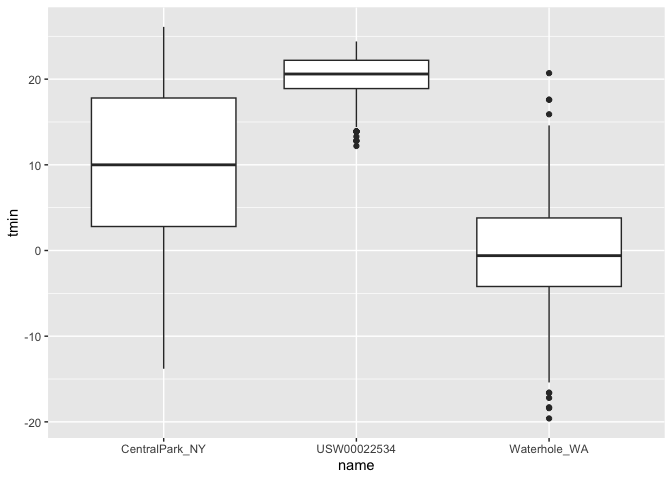
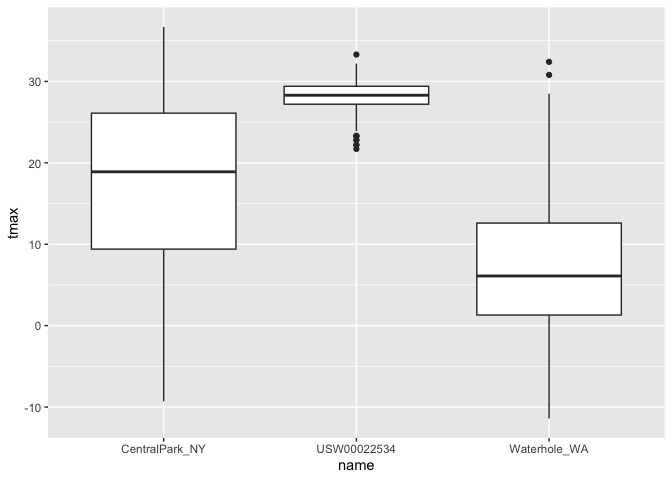
final commit

diff --git a/Visualization-1.md b/Visualization-1.md
@@ -269,15 +269,11 @@ can use a neat geom!
 
 ``` r
 weather_df |>
-  ggplot(aes(x = tmin, y = tmax,color=name)) + 
+  ggplot(aes(x = tmin, y = tmax)) + 
   geom_hex() 
 ```
 
     ## Warning: Removed 17 rows containing non-finite values (`stat_binhex()`).
-
-    ## Warning: Computation failed in `stat_binhex()`
-    ## Caused by error in `compute_group()`:
-    ## ! The package "hexbin" is required for `stat_binhex()`
 
 ![](Visualization-1_files/figure-gfm/unnamed-chunk-12-1.png)<!-- -->
 
@@ -347,10 +343,8 @@ Can we add color..
 
 ``` r
 weather_df |> 
-  ggplot(aes(x = tmin,fill=name)) + 
-  geom_histogram(position="dodge") +
-# the bins sit next to each other 
-  facet_grid(.~name)
+  ggplot(aes(x = tmin,color=name)) + 
+  geom_histogram(position="dodge") 
 ```
 
     ## `stat_bin()` using `bins = 30`. Pick better value with `binwidth`.
@@ -358,12 +352,19 @@ weather_df |>
     ## Warning: Removed 17 rows containing non-finite values (`stat_bin()`).
 
 ![](Visualization-1_files/figure-gfm/unnamed-chunk-17-1.png)<!-- -->
+
+``` r
+# the bins sit next to each other 
+```
+
 Let’s try a new geometry!
 
 ``` r
 weather_df |> 
-  ggplot(aes(x = tmin,fill=name)) + 
+  ggplot(aes(x = tmin,fill=name)) +
+# fill only applies to density plot 
   geom_density(alpha = .4,adjust = .5) +
+# adjust is about the same with binwidth 
   facet_grid(.~name)
 ```
 
@@ -379,7 +380,7 @@ What about boxplots?
 
 ``` r
 weather_df |> 
-  ggplot(aes(x = name,y=tmin)) + 
+  ggplot(aes(x = name,y=tmax)) + 
   geom_boxplot()
 ```
 
